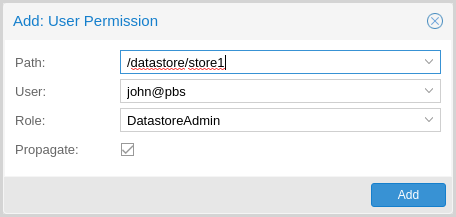
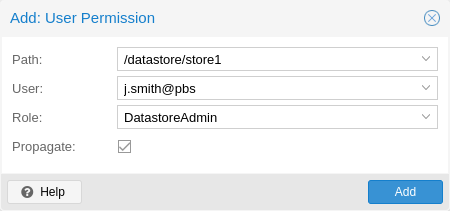
docs: add "Objects and Paths" section and fix perm scrot
we show the add-user one twice in this chapter, one should actually
be add-permission

diff --git a/docs/user-management.rst b/docs/user-management.rst
@@ -306,7 +306,48 @@ The following roles exist:
 **TapeReader**
   Can read and inspect tape configuration and media content
 
-.. image:: images/screenshots/pbs-gui-user-management-add-user.png
+Objects and Paths
+~~~~~~~~~~~~~~~~~
+
+Access permissions are assigned to objects, such as a datastore, a namespace or
+some system resources.
+
+We use file system like paths to address these objects. These paths form a
+natural tree, and permissions of higher levels (shorter paths) can optionally
+be propagated down within this hierarchy.
+
+Paths can be templated, that means they can refer to the actual id of an
+configuration entry.  When an API call requires permissions on a templated
+path, the path may contain references to parameters of the API call. These
+references are specified in curly braces.
+
+Some examples are:
+
+* `/datastore`: Access to *all* datastores on a Proxmox Backup server
+* `/datastore/{store}`: Access to a specific datastore on a Proxmox Backup
+  server
+* `/remote`: Access to all remote entries
+* `/system/network`: Access to configuring the host network
+* `/tape/`: Access to tape devices, pools and jobs
+* `/access/users`: User administration
+* `/access/openid/{id}`: Administrative access to a specific OpenID Connect realm
+
+Inheritance
+^^^^^^^^^^^
+
+As mentioned earlier, object paths form a file system like tree, and
+permissions can be inherited by objects down that tree through the propagate
+flag, which is set by default. We use the following inheritance rules:
+
+* Permissions for API tokens are always clamped to the one of the user.
+* Permissions on deeper, more specific levels replace those inherited from an
+  upper level.
+
+
+Configuration & Management
+~~~~~~~~~~~~~~~~~~~~~~~~~~
+
+.. image:: images/screenshots/pbs-gui-permissions-add.png
   :align: right
   :alt: Add permissions for user
 
